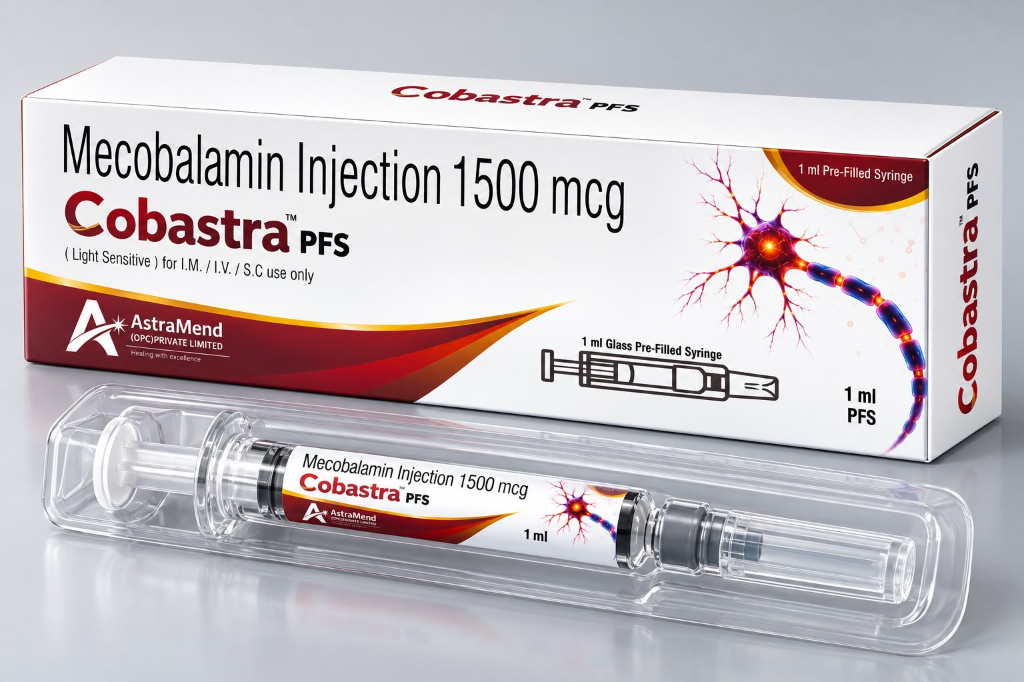
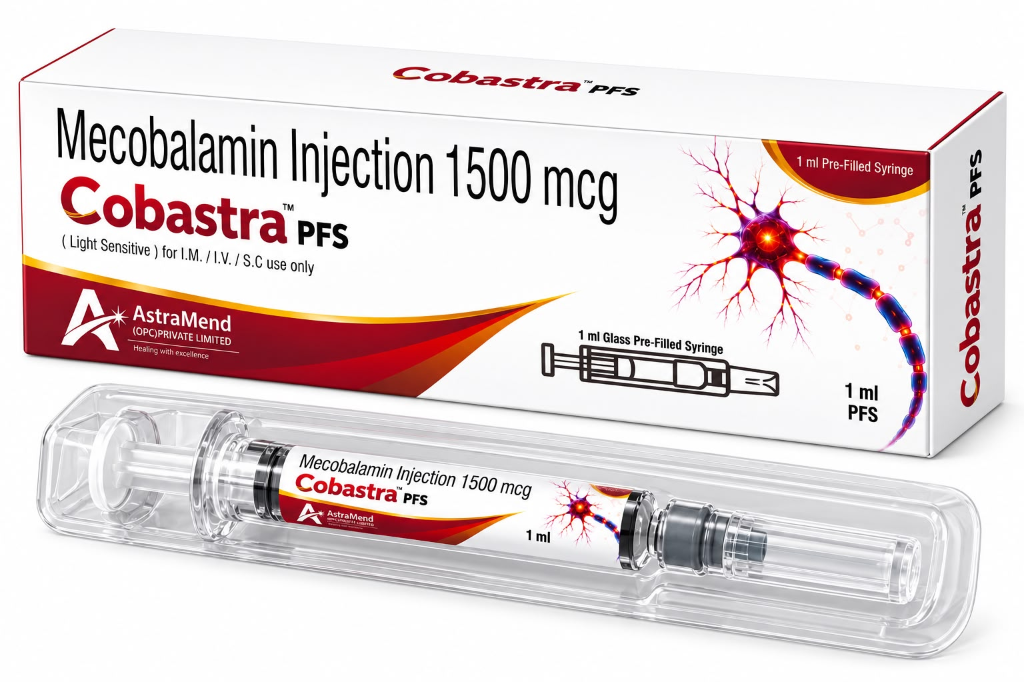
Update Cobastra PFS packaging photo and add ASTRAXON-TZ Ceftriaxone & Tazobactam injection product

diff --git a/js/main.js b/js/main.js
@@ -12,7 +12,8 @@ const PRODUCTS_DATA = [
     composition: 'Calcitriol 0.25 mcg + Calcium Citrate Malate 500 mg + Vitamin K2-7 50 mcg + Methylcobalamin 1500 mcg + Zinc Oxide 7.5 mg + Magnesium Oxide 50 mg + L-Methyl-Folate 800 mcg',
     indication: 'Supports Bone Health, Enhances Immunity, Improves Muscle Function & Maintains Joint Health.',
     pack: '10 x 10 Softgel Capsules Blister Pack',
-    badge: 'Flagship Formulation'
+    badge: 'Flagship Formulation',
+    image: 'assets/images/calvistar-capsules.png'
   },
   {
     id: 'tab-1',
@@ -62,7 +63,8 @@ const PRODUCTS_DATA = [
     composition: 'Mupirocin Ointment IP 2% w/w (For External Use Only)',
     indication: 'Topical antibacterial treatment for primary and secondary skin infections, impetigo, folliculitis, infected cuts & wounds.',
     pack: '15 g Laminated Tube & Mono Carton',
-    badge: 'Antibacterial Ointment'
+    badge: 'Antibacterial Ointment',
+    image: 'assets/images/astramup-ointment.png'
   },
   {
     id: 'crm-1',
@@ -89,20 +91,22 @@ const PRODUCTS_DATA = [
     category: 'injectables',
     categoryName: 'Injectables',
     name: 'Cobastra™ PFS Injection',
-    composition: 'Mecobalamin Injection 1500 mcg (Light Sensitive) for I.M. / I.V. / S.C.',
+    composition: 'Mecobalamin Injection 1500 mcg (Light Sensitive) for I.M. / I.V. / S.C. use only',
     indication: 'Peripheral neuropathy, diabetic nerve damage repair, megaloblastic anemia & neurological vitality.',
-    pack: '1 ml Glass Pre-Filled Syringe (PFS) in Blister Pack',
-    badge: 'Pre-Filled Syringe'
+    pack: '1 ml Glass Pre-Filled Syringe (PFS) in Protective Blister Pack',
+    badge: '1 ml Pre-Filled Syringe',
+    image: 'assets/images/cobastra-injectable.png'
   },
   {
-    id: 'inj-1',
+    id: 'astraxon-tz-1',
     category: 'injectables',
     categoryName: 'Injectables',
-    name: 'AstraCef-1000 Injection',
-    composition: 'Ceftriaxone Sodium Sterile IP 1000mg with Sterile Water for Inj.',
-    indication: 'Critical care cephalosporin antibiotic for severe bacterial infections.',
-    pack: 'Single Vial + WFI',
-    badge: 'Critical Care'
+    name: 'ASTRAXON-TZ Injection',
+    composition: 'Ceftriaxone & Tazobactam For Injection 1.125 gm (Ceftriaxone Sodium Sterile IP Eq. to Ceftriaxone 1000 mg + Tazobactam Sodium Sterile Eq. to Tazobactam 125 mg) with Sterile Water for Injections IP 10 ml',
+    indication: 'Dual Action broad-spectrum critical care antibiotic for severe nosocomial, lower respiratory, urinary tract & intra-abdominal bacterial infections.',
+    pack: '1.125 gm Glass Vial + 10 ml Sterile Water for Injections IP (I.M./I.V.)',
+    badge: 'Dual Action 1.125 gm',
+    image: 'assets/images/astraxon-tz-injection.png'
   },
   {
     id: 'inj-2',
@@ -122,7 +126,8 @@ const PRODUCTS_DATA = [
     composition: 'Energy 5.33 kcal, Protein 0.12g, Niacinamide, B-Complex (B1, B2, B6, B12), Folic Acid, Biotin, Calcium Pantothenate, Vitamin A, C, D3, E, K2-7, Zinc, Magnesium, Selenium, Copper, Manganese, Chromium, Iodine, Lutein, Lycopene, Grape Seed Extract, Green Tea Extract, Ginkgo Biloba Extract, Coenzyme Q10, Choline Bitartrate',
     indication: 'Boosts energy & immunity, daily nutritional support with antioxidant cellular protection & vital stamina.',
     pack: '30 Softgel Capsules Bottle & Carton Pack',
-    badge: 'Flagship Supplement'
+    badge: 'Flagship Supplement',
+    image: 'assets/images/astravion-health-supplement.png'
   },
   {
     id: 'nut-1',
@@ -142,7 +147,8 @@ const PRODUCTS_DATA = [
     composition: 'L-Arginine 3.0 g + Grape Seed Extract (Vitis vinifera) 75 mg (Sugar Free, Gluten Free, Lemon Orange Flavour)',
     indication: 'Nutraceutical for Women’s Health & Wellness. Supports reproductive health, healthy blood flow, healthy pregnancy, and boosts energy & stamina.',
     pack: '10 x 5 g Sachet Box',
-    badge: 'Women’s Wellness'
+    badge: 'Women’s Wellness',
+    image: 'assets/images/argivex-sachet.png'
   },
   {
     id: 'nut-2',
@@ -356,10 +362,15 @@ function renderCatalog() {
 
   catalogGrid.innerHTML = filtered.map(item => `
     <div class="catalog-item-card">
-      <div style="display: flex; justify-content: space-between; align-items: flex-start;">
+      <div style="display: flex; justify-content: space-between; align-items: flex-start; margin-bottom: 8px;">
         <span class="catalog-item-tag">${item.categoryName}</span>
         <span style="font-size: 0.7rem; font-weight: 700; color: #0284c7; background: #e0f2fe; padding: 2px 6px; border-radius: 4px;">${item.badge}</span>
       </div>
+      ${item.image ? `
+        <div style="width: 100%; height: 120px; display: flex; align-items: center; justify-content: center; background: #ffffff; border: 1px solid #eef2f6; border-radius: 10px; margin: 8px 0; overflow: hidden; padding: 4px;">
+          <img src="${item.image}" alt="${item.name}" loading="lazy" style="max-height: 100%; max-width: 100%; object-fit: contain;">
+        </div>
+      ` : ''}
       <h4 class="catalog-item-name">${item.name}</h4>
       <p style="font-size: 0.8125rem; font-weight: 600; color: #0a2540; margin-bottom: 4px;">${item.composition}</p>
       <p class="catalog-item-comp">${item.indication}</p>

diff --git a/index.html b/index.html
@@ -257,7 +257,7 @@
             </div>
           </div>
 
-          <!-- 4. Injectables -->
+          <!-- 3. Injectables (Cobastra PFS) -->
           <div class="product-card" data-category="injectables">
             <div class="product-card-img">
               <img src="assets/images/cobastra-injectable.png" alt="Cobastra PFS Mecobalamin Injection" loading="lazy" style="object-fit: contain; background: #ffffff; padding: 6px;">
@@ -273,8 +273,30 @@
               </div>
             </div>
             <div class="product-card-body">
-              <h3 class="product-card-title">Injectables</h3>
-              <p class="product-card-desc">Safe and reliable for critical care</p>
+              <h3 class="product-card-title">Cobastra™ PFS</h3>
+              <p class="product-card-desc">Mecobalamin 1500 mcg Pre-Filled Syringe</p>
+              <span class="product-card-action">Explore Catalog &rarr;</span>
+            </div>
+          </div>
+
+          <!-- 4. Injectables (ASTRAXON-TZ) -->
+          <div class="product-card" data-category="injectables">
+            <div class="product-card-img">
+              <img src="assets/images/astraxon-tz-injection.png" alt="ASTRAXON-TZ Ceftriaxone & Tazobactam Injection" loading="lazy" style="object-fit: contain; background: #ffffff; padding: 6px;">
+              <div class="product-card-icon-badge">
+                <svg width="20" height="20" viewBox="0 0 24 24" fill="none" stroke="currentColor" stroke-width="2" stroke-linecap="round" stroke-linejoin="round">
+                  <path d="m18 2 4 4"></path>
+                  <path d="m17 7 3-3"></path>
+                  <path d="M19 9 8.7 19.3c-1 1-2.5 1-3.4 0l-.6-.6c-1-1-1-2.5 0-3.4L15 5"></path>
+                  <path d="m9 11 4 4"></path>
+                  <path d="m5 19-3 3"></path>
+                  <path d="m14 4 6 6"></path>
+                </svg>
+              </div>
+            </div>
+            <div class="product-card-body">
+              <h3 class="product-card-title">ASTRAXON-TZ</h3>
+              <p class="product-card-desc">Ceftriaxone & Tazobactam 1.125 gm + WFI</p>
               <span class="product-card-action">Explore Catalog &rarr;</span>
             </div>
           </div>

diff --git a/css/style.css b/css/style.css
@@ -528,8 +528,15 @@ button, input, textarea, select {
 
 .products-grid {
   display: grid;
-  grid-template-columns: repeat(5, 1fr);
-  gap: 20px;
+  grid-template-columns: repeat(3, 1fr);
+  gap: 24px;
+}
+
+@media (max-width: 992px) {
+  .products-grid {
+    grid-template-columns: repeat(2, 1fr);
+    gap: 20px;
+  }
 }
 
 .product-card {
